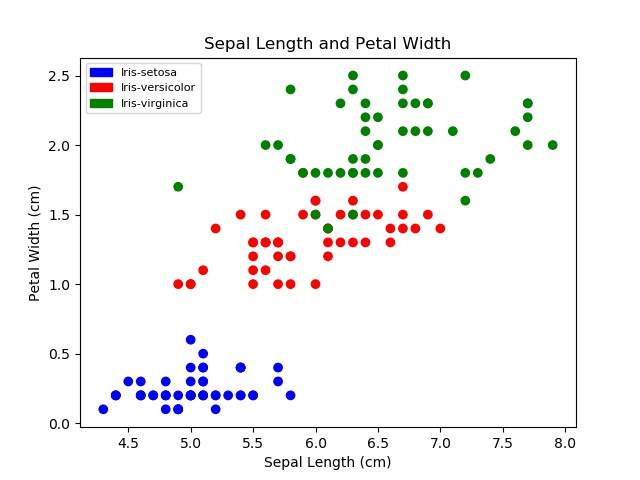
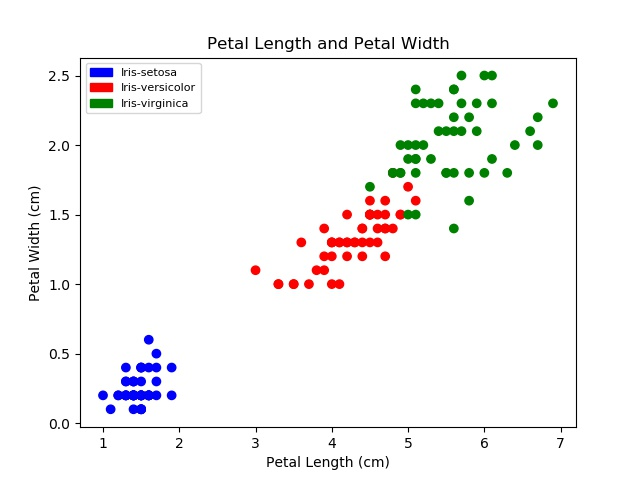
added scatter to readme

diff --git a/analysis.py b/analysis.py
@@ -238,6 +238,9 @@ def scatterPetal():
         data_key = mpatches.Patch(color=colormap[key], label=key)
         patchList.append(data_key)
 
+    plt.legend(handles=patchList, loc='upper left', fontsize= 8)
+    plt.savefig('res/scatterPetal.jpg') 
+
 # This function will produce a scatter plot of sepal length and petal width
 def scatterSepLenPetWid():
     x = list(data1['Sepal Length (cm)'])
@@ -259,9 +262,6 @@ def scatterSepLenPetWid():
 
     plt.legend(handles=patchList, loc='upper left', fontsize= 8)
     plt.savefig('res/scatterSepLenPetWid.jpg') 
-
-    plt.legend(handles=patchList, loc='upper left', fontsize= 8)
-    plt.savefig('res/scatterPetal.jpg') 
 
 # This function will produce a scatter plot of sepal width to petal length
 def scatterSepWidPetLen():

diff --git a/start.py b/start.py
@@ -4,7 +4,8 @@ def main():
     # To change function look at function descriptions in analysis.py
     # decide which one you would like to run
     # and input in the form analysis.functionName()
-    analysis.readData()
+    #analysis.readData()
+    analysis.scatterPetal()
 
 if __name__ == "__main__":
     main()

diff --git a/README.md b/README.md
@@ -107,6 +107,38 @@ This repository contains my solutions to the Problem Set for the module Programm
 
 <p>From this graph we can see that the setosa seems to have the most distinct features compared to the other two flowers. The setosa also by far has the largest petals (in both width and length). Versicolor and virgincia seem to overlap quite a bit in sepal length and width. There appears to be more of a difference between the two in petal length and width.</p>
 
+## Pair Plot
+<p>Next we will try to take a look at how some of these variables interact. An easy way to get a good overview of this is with a pairplot</p>
+
+![Pair Plot Code](/images/pair.JPG)
+
+<p>This gives us a great overview and allows us to better visualise the data thereby allowing us to make important observations about the data.</p>
+
+![Pair Plot](/res/pairplot.jpg)
+
+<p>Let's look a little but closer a some of these scatter plots</p>
+
+## Scatter Plots
+<p>Firstly we will look at whether there is any relationship between sepal length and width. Coding this was a little tricky. I had to create a colourmap to make the graph readable and then maunally make a legend rather than have the computer generate one [12]</p>
+
+![Scatter Sepal Code](/images/scatterSepal.jpg)
+
+<p>Look at the scatter plots we can make some observations about the data</p>
+
+![Scatter Speal](/res/scatterSepal.jpg)
+
+<p>Iris-Setosa appears to be the only flower that differs in a distinctive way in terms of speal length and width. However Iris-versicolor and Iris-virginica appear a little more varied and mixed together</p>
+
+<p>Next we will look at the relationship between petal length and width. Coding this was much the same processs as the previous graph.</p>
+
+![Scatter Petal](/images/scatterPetal.jpg)
+
+<p>So looking at the relationship between petal length and width we can make some observations.</p>
+
+![Petal Plot](/res/scatterPetal.jpg)
+
+<p>Examining the graph tells us that these two measurements increase together. Logically that must be true if they did not they would be very long thin petals, or else very short and wide petals. The graph also shows that this is a very good way to differinate between the different flowers.</p>
+
 
 
 ## References
